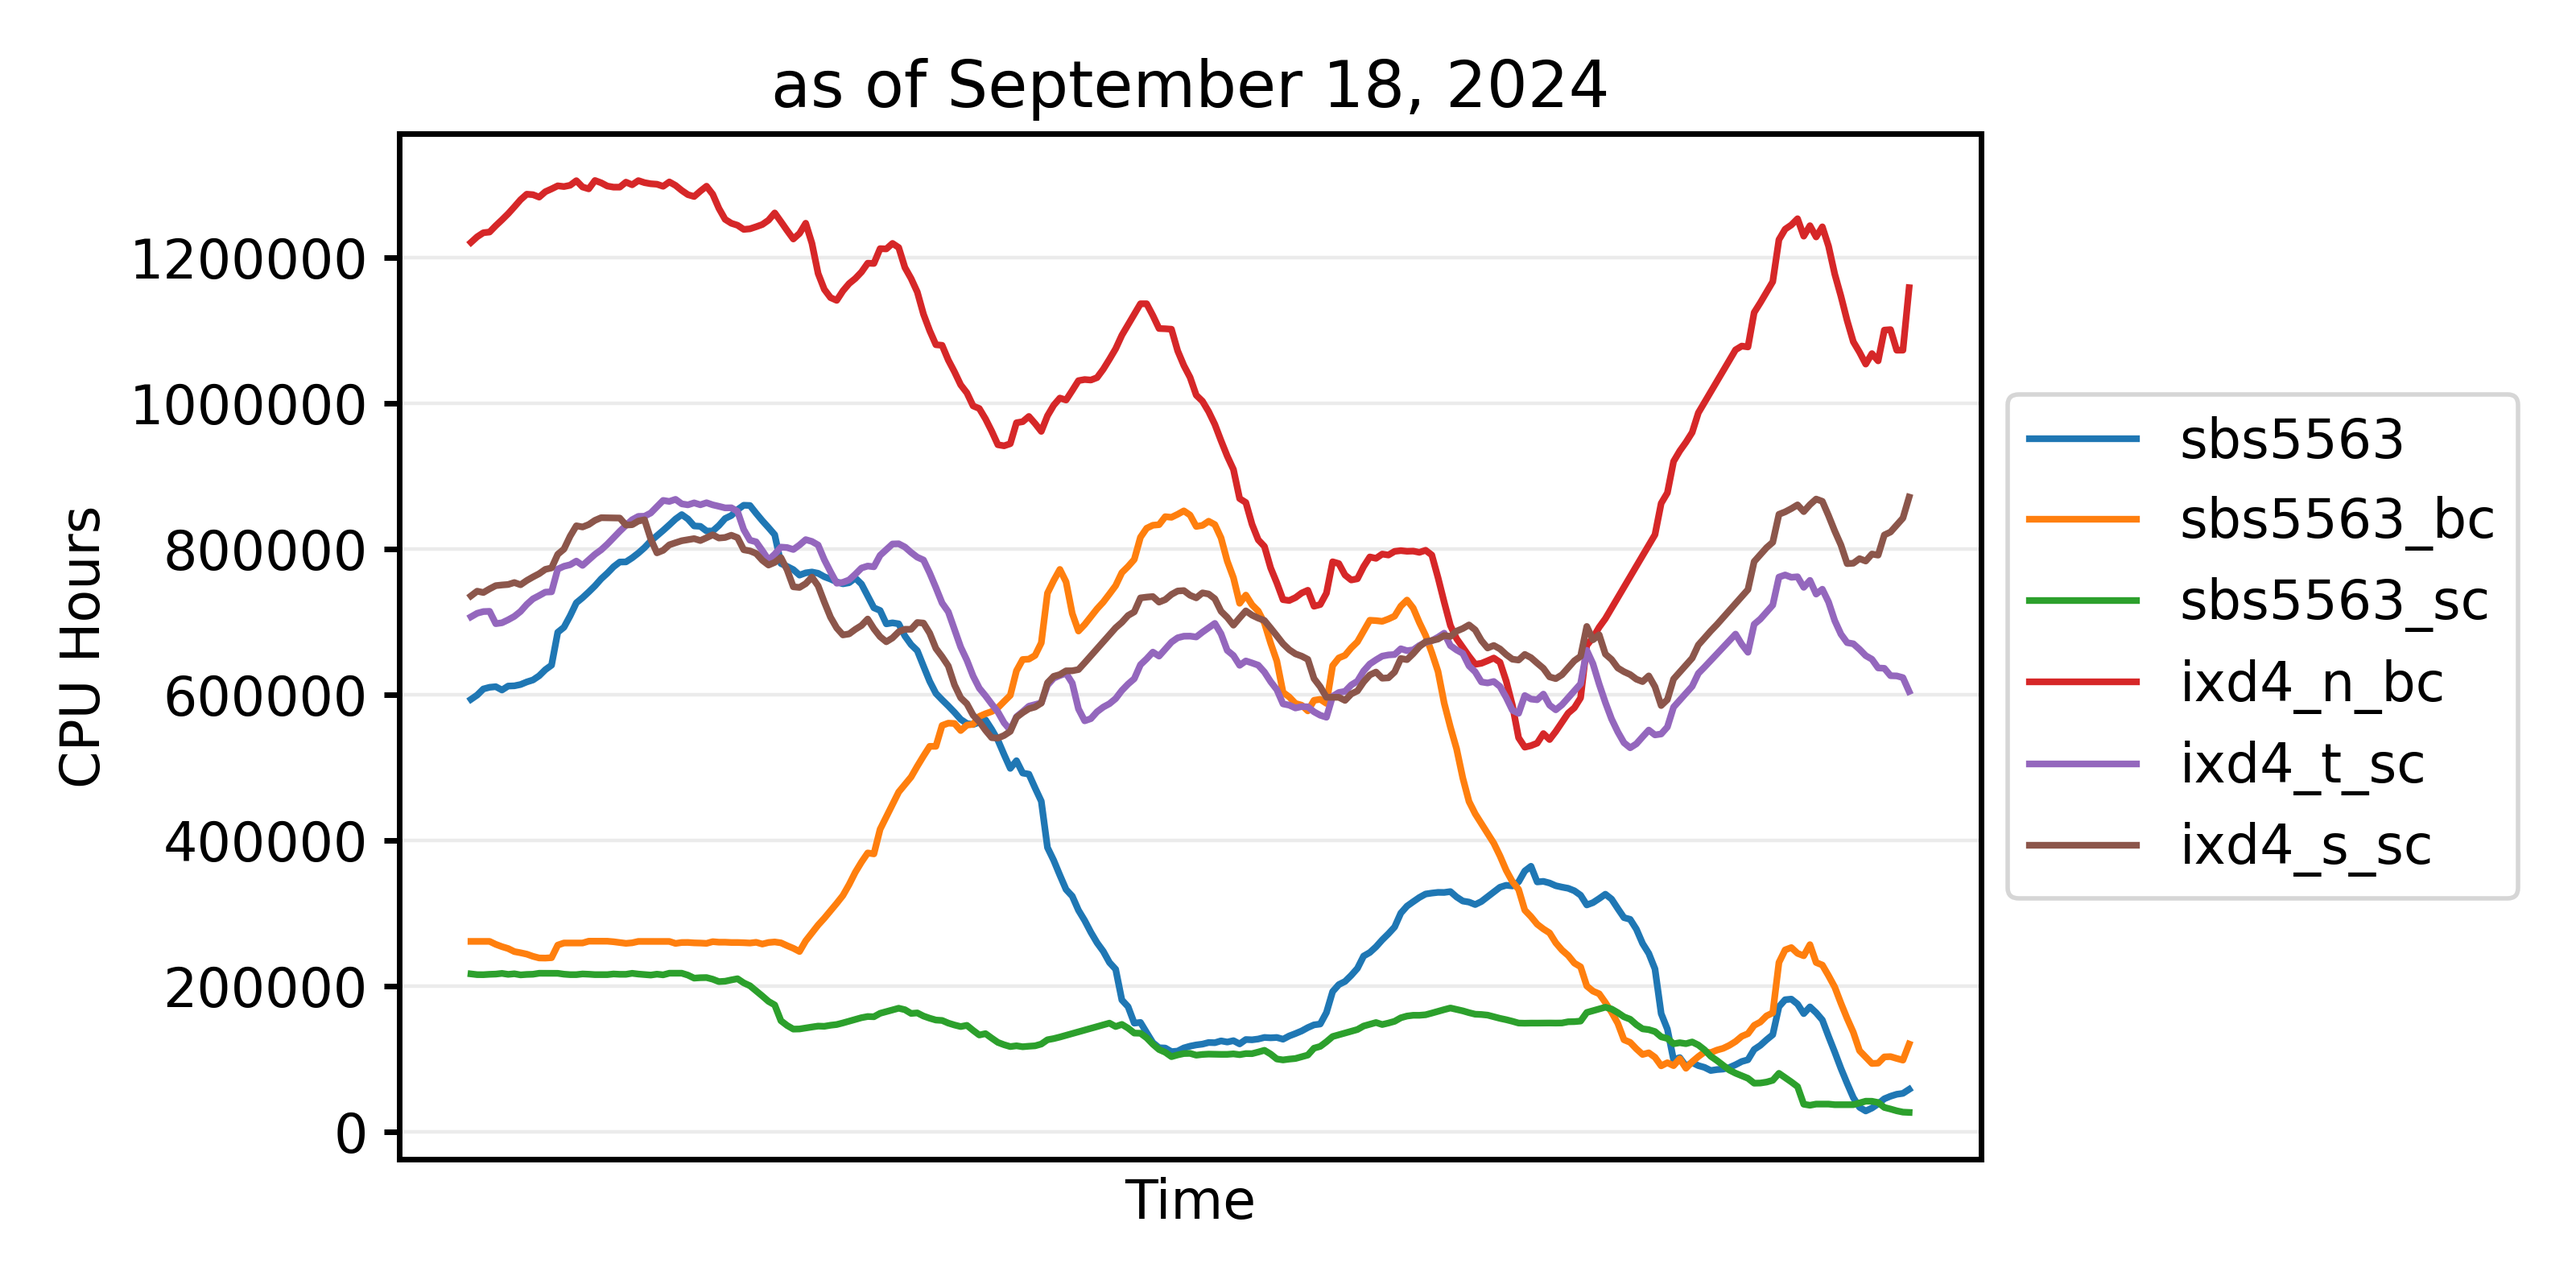
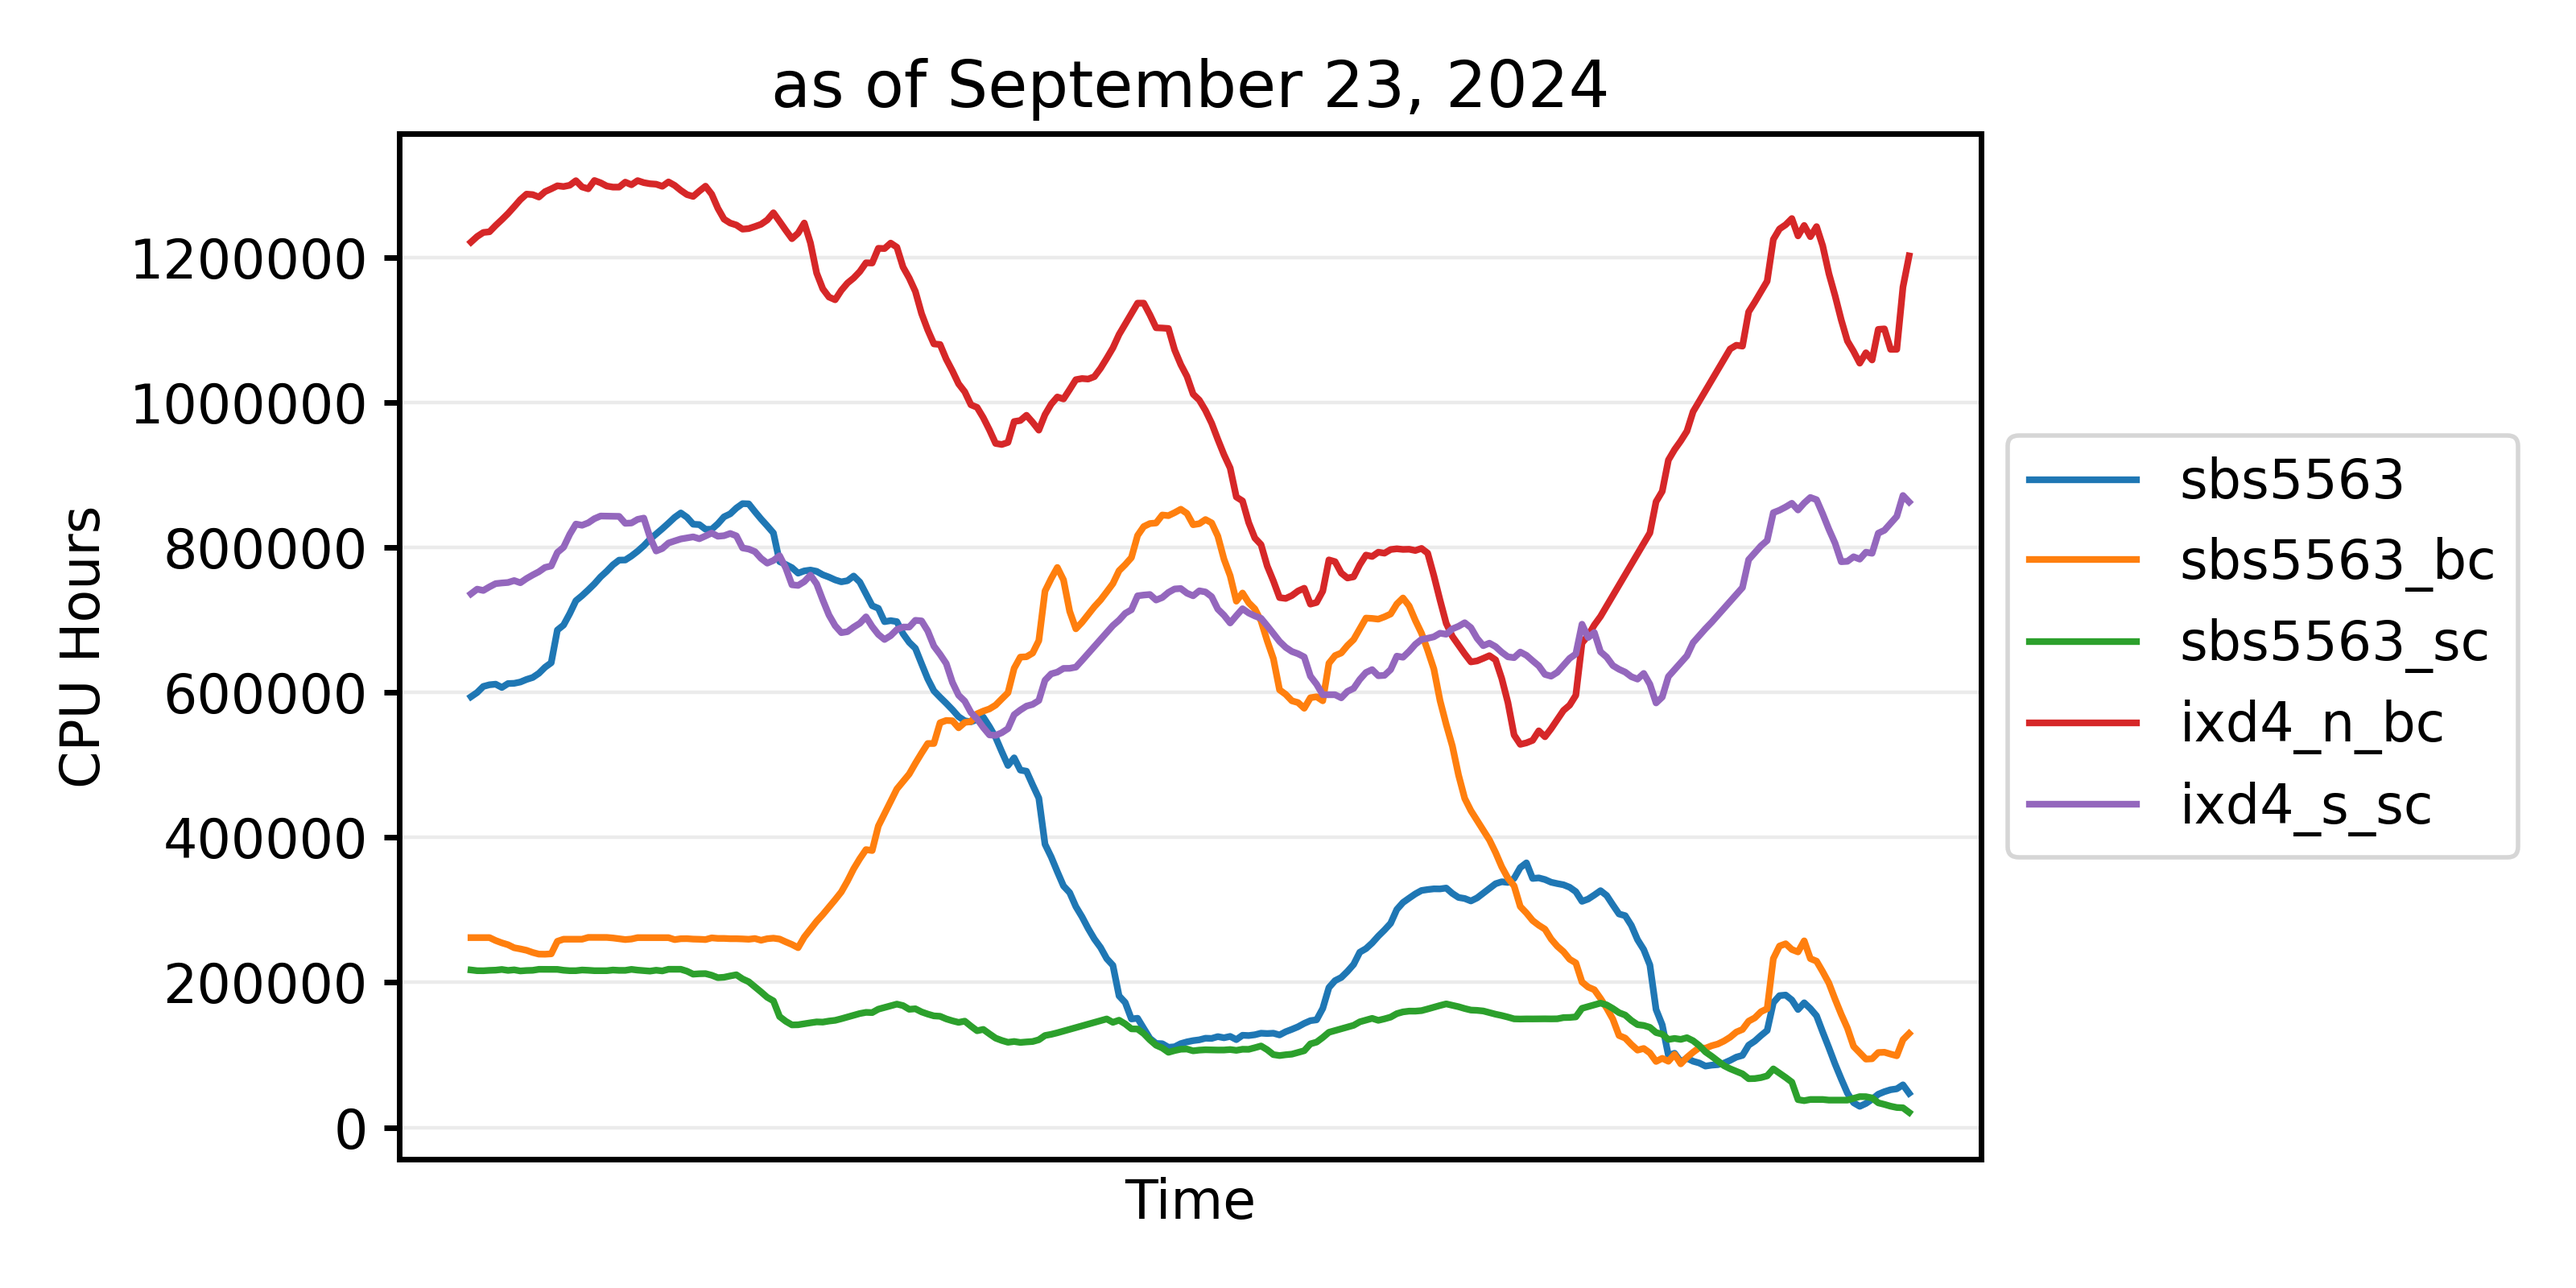
2024-09-23

diff --git a/scripts/get_todays_balances.py b/scripts/get_todays_balances.py
@@ -7,7 +7,7 @@ allocations = [
     "sbs5563_bc",
     "sbs5563_sc",
     "ixd4_n_bc",
-    "ixd4_t_sc",
+#    "ixd4_t_sc",
     "ixd4_s_sc",
 ]
 
